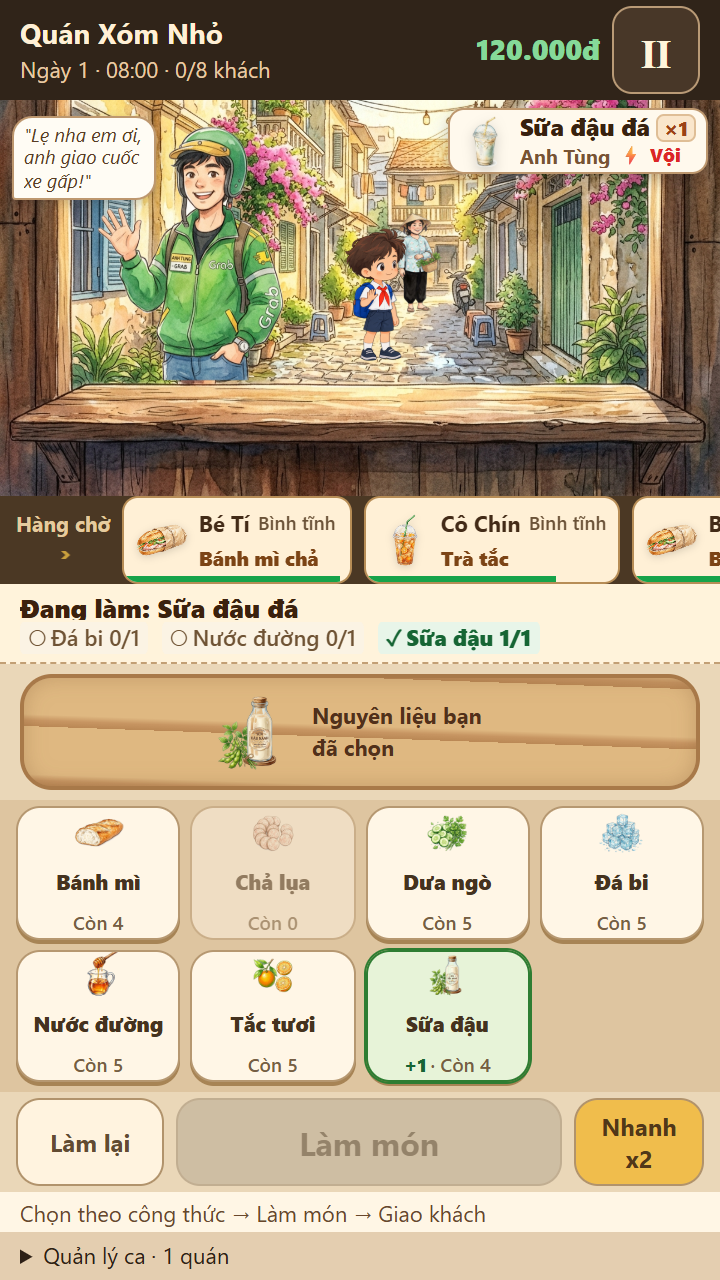
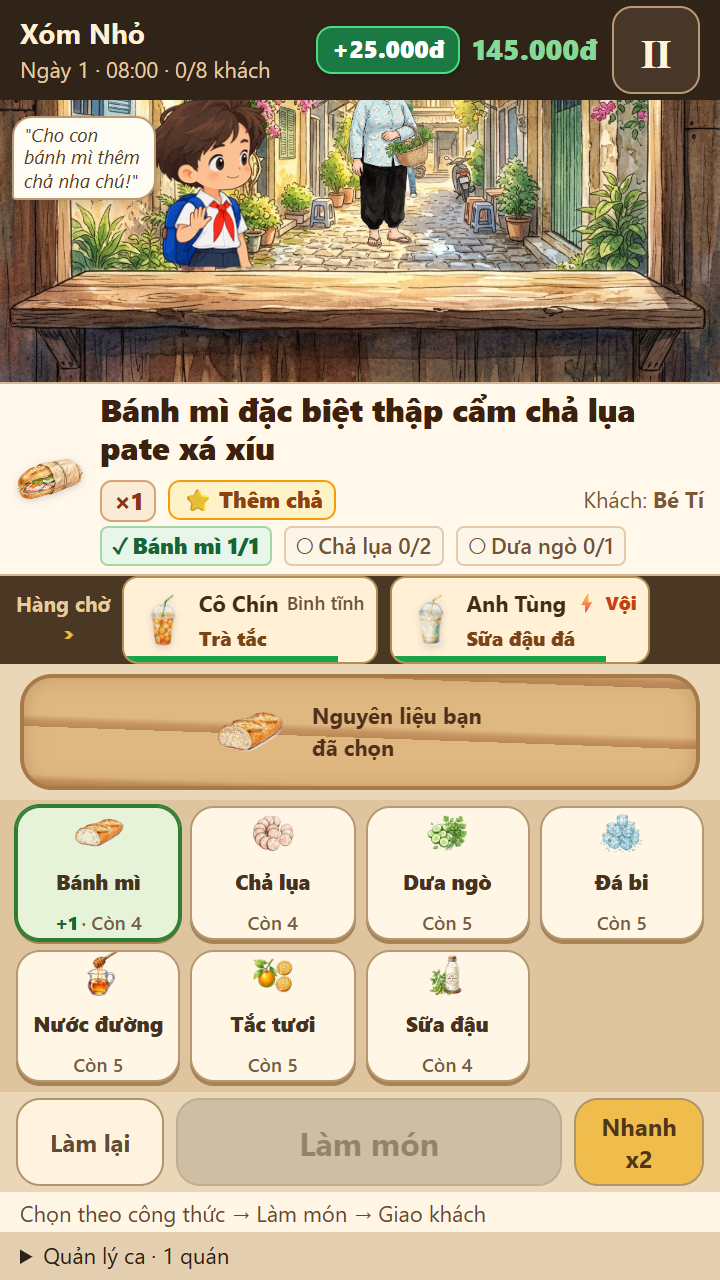
fix(mobile): convert order ticket to order strip under scene with 16px dish name, separate qty, and header cash gain

diff --git a/game/style.css b/game/style.css
@@ -2633,31 +2633,37 @@ button:focus-visible, [role=button]:focus-visible { outline: 3px solid #0e7490; 
 
 /* Hands-on mobile kitchen: all cooking controls share the visible viewport. */
 #app[data-screen="SHOP"] { height: 100dvh; min-height: 0; overflow: hidden; }
-.play-screen { height:100%; display:grid; grid-template-rows:54px minmax(120px,1fr) 44px 42px 84px 154px 54px 24px 24px; gap:0; background:#ead7b8; padding-bottom:env(safe-area-inset-bottom); }
+.play-screen { height:100%; display:grid; grid-template-rows:54px minmax(110px,1fr) auto 44px 84px 154px 54px 24px 24px; gap:0; background:#ead7b8; padding-bottom:env(safe-area-inset-bottom); }
 .play-header { display:flex; align-items:center; gap:6px; padding:5px 10px; background:#302419; color:#fff0d6; }
 .play-header>div { min-width:0; flex:1; }
 .play-header b { display:block; white-space:nowrap; overflow:hidden; text-overflow:ellipsis; font-size:14px; }
 .play-header small { display:block; font-size:11px; color:#e8cba5; }
-.play-cash { font-size:14px; font-weight:800; color:#86d999; position:relative; white-space:nowrap; }
-.play-cash i { position:absolute; top:24px; right:0; background:#237846; color:white; z-index:60; font-size:12px; font-style:normal; padding:2px 6px; }
+.play-cash-group { display:flex; align-items:center; gap:6px; margin-left:auto; }
+.cash-floating-gain { background:#1b7a43; color:#ffffff; font-size:12px; font-weight:800; padding:2px 7px; border-radius:8px; border:1px solid #4ade80; box-shadow:0 2px 4px rgba(0,0,0,0.2); white-space:nowrap; animation:gainPulse 0.4s ease-out; }
+@keyframes gainPulse { 0% { transform:scale(0.85); opacity:0; } 50% { transform:scale(1.08); opacity:1; } 100% { transform:scale(1); opacity:1; } }
+.play-cash { font-size:14px; font-weight:800; color:#86d999; white-space:nowrap; }
 .play-pause { width:44px; height:44px; border:1px solid #b99a76; background:#483728; color:#fff5db; border-radius:10px; flex-shrink:0; font-size:20px; }
 .play-scene { position:relative; overflow:hidden; min-height:0; background:#c1b288; }
 .play-stage { position:absolute; inset:0; width:100%; height:100%; pointer-events:none; }
 .customer-speech-bubble { position:absolute; z-index:25; left:6px; top:8px; max-width:72px; background:#fffcf4; border:1.5px solid #bd976e; border-radius:10px 10px 10px 2px; padding:3px 5px; font-size:9.5px; font-style:italic; color:#583d24; line-height:1.2; box-shadow:0 2px 6px rgba(36,26,25,0.22); pointer-events:none; }
 .customer-speech-bubble span { display:-webkit-box; -webkit-line-clamp:3; -webkit-box-orient:vertical; overflow:hidden; }
-.play-speech, .customer-order-callout { position:absolute; z-index:30; right:6px; top:4px; max-width:138px; background:#fff9ed; border:1.5px solid #bd976e; border-radius:8px; padding:2px 5px; box-shadow:0 3px 8px rgba(36,26,25,0.25); display:flex; align-items:center; gap:4px; }
-.customer-order-callout.is-empty { padding:6px 10px; text-align:center; color:#795b3d; font-style:italic; font-size:11px; }
-.ticket-dish-img { width:28px; height:28px; object-fit:contain; flex-shrink:0; filter:drop-shadow(0 2px 3px rgba(0,0,0,0.18)); }
-.ticket-dish-meta { flex:1; min-width:0; display:flex; flex-direction:column; justify-content:center; gap:1px; }
-.ticket-dish-title-row { display:flex; align-items:baseline; gap:3px; flex-wrap:wrap; }
-.ticket-dish-name { font-size:12.5px; font-weight:800; color:#38210f; line-height:1.15; white-space:normal; word-break:break-word; }
-.ticket-qty-pill { font-size:10px; font-weight:800; color:#9c4115; background:#fae6cb; border:1px solid #dfbe96; border-radius:4px; padding:0 3px; flex-shrink:0; line-height:1.2; }
-.ticket-special-badge { display:inline-block; font-size:9.5px; font-weight:800; color:#b44921; background:#fdf2db; border:1px solid #eab366; border-radius:4px; padding:0 3px; white-space:nowrap; }
-.ticket-cust-sub { display:flex; align-items:center; gap:4px; font-size:10px; color:#785333; line-height:1.2; }
-.ticket-cust-name { font-weight:700; white-space:nowrap; overflow:hidden; text-overflow:ellipsis; }
-.ticket-rush-tag { color:#dc2626; font-weight:800; font-size:9.5px; white-space:nowrap; }
-.ticket-empty-row { font-size:11px; color:#83674b; font-style:italic; padding:2px 0; }
-.play-pause-overlay { position:absolute; inset:0; background:#30241990; z-index:50; color:#fff; display:grid; place-items:center; font-size:20px; font-weight:800; }
+.active-order-strip { background:#fff8eb; border-top:1.5px solid #d4b896; border-bottom:1.5px solid #d4b896; padding:4px 10px; display:flex; flex-direction:column; justify-content:center; gap:3px; box-shadow:0 2px 4px rgba(60,35,10,0.06); min-height:48px; overflow:hidden; }
+.active-order-strip.is-empty { padding:6px 10px; }
+.order-strip-main { display:flex; align-items:center; gap:8px; width:100%; }
+.order-strip-main .ticket-dish-img { width:34px; height:34px; object-fit:contain; flex-shrink:0; filter:drop-shadow(0 1px 2px rgba(0,0,0,0.15)); }
+.order-strip-content { flex:1; min-width:0; display:flex; flex-direction:column; gap:2px; }
+.order-strip-title-row { display:flex; align-items:center; gap:6px; flex-wrap:wrap; }
+.ticket-dish-name { font-size:16px; font-weight:800; color:#3b210e; line-height:1.2; display:-webkit-box; -webkit-line-clamp:2; -webkit-box-orient:vertical; overflow:hidden; word-break:break-word; }
+.ticket-qty-pill { font-size:12px; font-weight:800; color:#8a3416; background:#faebd7; border:1.5px solid #d5a374; border-radius:6px; padding:1px 6px; flex-shrink:0; }
+.ticket-special-badge { font-size:11px; font-weight:800; color:#92400e; background:#fef3c7; border:1px solid #f59e0b; border-radius:6px; padding:1px 6px; white-space:nowrap; flex-shrink:0; }
+.ticket-rush-tag { font-size:11px; font-weight:800; color:#b91c1c; background:#fee2e2; border:1px solid #f87171; border-radius:6px; padding:1px 5px; white-space:nowrap; flex-shrink:0; }
+.ticket-cust-tag { font-size:11px; color:#7a5836; white-space:nowrap; margin-left:auto; }
+.active-order-strip .receipt-checklist { display:flex; gap:6px; align-items:center; overflow-x:auto; padding-bottom:1px; margin:0; }
+.receipt-item { font-size:11px; color:#745b40; white-space:nowrap; display:inline-flex; align-items:center; gap:2px; padding:1px 5px; border-radius:4px; background:#fdf5e8; border:1px solid #e2cbaf; }
+.receipt-item.checked { color:#166534; font-weight:800; background:#e8f5e9; border-color:#a5d6a7; }
+.receipt-item.pending { color:#6f5334; font-weight:500; }
+.receipt-mark { font-style:normal; font-weight:900; font-size:11px; }
+.order-strip-empty { font-size:12px; color:#7a5836; display:flex; align-items:center; justify-content:space-between; }
 .play-queue { position:relative; display:flex; align-items:center; gap:6px; background:#4b3824; padding:0 8px; overflow-x:auto; color:#f6e1b9; font-size:11px; scrollbar-width:thin; }
 .queue-header-label { width:auto; min-width:38px; flex-shrink:0; font-weight:700; font-size:10.5px; color:#e5cb9f; display:flex; flex-direction:column; align-items:center; line-height:1.1; }
 .queue-scroll-indicator { display:inline-block; font-style:normal; font-size:13px; font-weight:900; color:#f6c445; animation:queueArrowPulse 1.2s ease-in-out infinite; }
@@ -2674,13 +2680,7 @@ button:focus-visible, [role=button]:focus-visible { outline: 3px solid #0e7490; 
 .queue-patience-bar { position:absolute; left:0; bottom:0; height:3px; }
 .queue-ticket.chosen { background:#ffdf8b; border:2px solid #e2ab24; }
 .queue-empty-note { font-size:11px; color:#d8c29f; font-style:italic; white-space:nowrap; }
-.order-receipt { padding:4px 10px; background:#fff3db; border-bottom:1px dashed #c29f74; display:flex; flex-direction:column; justify-content:center; overflow:hidden; }
-.order-receipt > b { font-size:13px; font-weight:800; color:#3b210e; line-height:1.2; white-space:nowrap; overflow:hidden; text-overflow:ellipsis; }
-.receipt-checklist { display:flex; gap:7px; align-items:center; overflow-x:auto; margin-top:1px; }
-.receipt-item { font-size:11px; color:#745b40; white-space:nowrap; display:inline-flex; align-items:center; gap:2px; padding:1px 4px; border-radius:4px; background:#fbf3e4; }
-.receipt-item.checked { color:#166534; font-weight:800; background:#e8f5e9; }
-.receipt-item.pending { color:#6f5334; font-weight:500; }
-.receipt-mark { font-style:normal; font-weight:900; font-size:11px; }
+.play-pause-overlay { position:absolute; inset:0; background:#30241990; z-index:50; color:#fff; display:grid; place-items:center; font-size:20px; font-weight:800; }
 .cooking-board {margin:5px 10px;position:relative;border:2px solid #a87949;border-radius:16px;background:repeating-linear-gradient(2deg,#ba8855 0px,#c79562 3px,#dfb881 6px,#dfb881 30px);box-shadow:inset 0 0 10px #70482340;display:flex;align-items:center;justify-content:center;gap:10px;overflow:hidden;color:#51301b;font-size:12px}
 .cooking-board>b{font-size:11px;max-width:100px}.selected-art{display:flex;align-items:center;justify-content:center;gap:2px;max-width:65%;height:63px}.selected-art img{width:50px;height:58px;object-fit:contain;animation:ingredientDrop .2s ease-out}.finished-dish{height:62px;width:100px;object-fit:contain;animation:ingredientDrop .25s ease-out}.is-cooking .selected-art {animation:cookSway .5s ease-in-out infinite alternate}.cook-progress{position:absolute;bottom:0;left:0;height:4px;width:100%;background:#f4d5a2}.cook-progress i{display:block;height:100%;background:#a65020}
 .ingredient-tray {display:grid;grid-template-columns:repeat(4,minmax(0,1fr));grid-template-rows:repeat(2,minmax(0,1fr));gap:5px;padding:3px 8px 5px;background:#dec5a0}
@@ -2692,7 +2692,7 @@ button:focus-visible, [role=button]:focus-visible { outline: 3px solid #0e7490; 
 .market-screen,.menu-screen{padding:10px 12px}.capacity-banner{padding:10px;margin-bottom:8px}.capacity-header{font-size:12px}.btn-bundle{padding:10px;font-size:13px}.btn-bundle small{font-size:10px;line-height:1.3}.market-list{display:grid;grid-template-columns:1fr 1fr;gap:7px}.market-item-card{display:flex;flex-wrap:wrap;padding:6px;gap:4px;border-radius:12px;min-width:0}.market-item-img{width:42px;height:36px;object-fit:contain}.market-item-info{flex:1;min-width:75px;gap:0}.market-item-info strong{font-size:12px}.market-item-info span{font-size:11px}.market-item-info small{display:none}.stepper{width:100%;justify-content:space-between;gap:2px}.step-btn{width:44px;height:44px}.market-checkout-dock{padding:8px 0;position:sticky;bottom:0;background:#fbf6ee}.checkout-summary{font-size:12px;margin-bottom:6px}.market-note{font-size:11px}.menu-intro{margin:0 0 8px}.menu-intro h3{font-size:15px;margin:0}.menu-intro p{font-size:12px;margin:3px 0}
 .menu-card{padding:10px 12px;margin:0 0 10px;border-radius:14px;background:#fffcf5;border:1.5px solid #d5be9b}.menu-card.locked-dish{background:#f6efe2;border-style:dashed}.menu-card-top{display:flex;align-items:center;gap:10px;margin-bottom:6px}.menu-dish-thumb{width:44px;height:44px;object-fit:contain;flex-shrink:0;filter:drop-shadow(0 2px 3px rgba(0,0,0,0.12))}.menu-dish-identity{flex:1;min-width:0}.menu-toggle{display:flex;align-items:center;gap:6px;min-height:32px;cursor:pointer}.menu-toggle input{width:20px;height:20px;margin:0;cursor:pointer;flex-shrink:0}.menu-toggle strong{font-size:14px;font-weight:800;color:#3b2210}.cost-estimate{display:block;font-size:11px;color:#765b3c;margin-top:1px}.menu-lock-condition{padding:6px 10px;background:#f0e4cf;border:1px solid #d0bc9b;border-radius:8px;font-size:11px;font-weight:600;color:#754f24;margin:4px 0 6px}.price-tiers-row{display:flex;align-items:center;justify-content:space-between;margin:6px 0;gap:6px}.price-tier-label{font-size:11px;font-weight:600;color:#583c22}.price-tier-buttons{display:flex;gap:6px}.price-tier-btn{min-width:44px;min-height:44px;padding:6px 12px;border:1.5px solid #bba17b;border-radius:10px;background:#f6ebd8;color:#4e341b;font-weight:700;font-size:13px}.price-tier-btn.selected{background:#b44921;color:#ffffff;border-color:#7e2d17}.menu-margin-preview{font-size:11px;color:#216d3f;font-weight:600;margin-top:4px}.price-demand-hint{font-size:11px;color:#b45309;margin-top:3px}.opening-time-section{padding:8px;margin-top:8px}.opening-time-section label{font-size:12px}.time-btn{min-height:44px;padding:6px;font-size:12px}.opening-note{font-size:11px;margin:6px 0}.menu-footer{padding:8px 0}.btn-primary{min-height:48px;font-size:15px;padding:12px;border-radius:14px}.cover-tag{font-size:11px}.cover-desc{font-size:14px}.top-nav{min-height:54px}
 @keyframes ingredientDrop{from{transform:translateY(-12px);opacity:0}to{transform:translateY(0);opacity:1}}@keyframes cookSway{from{transform:translateX(-3px)}to{transform:translateX(3px)}}@keyframes reactBounce{50%{transform:translateY(-5px)}}
-@media(max-height:640px){.play-screen{grid-template-rows:50px minmax(100px,1fr) 44px 40px 68px 146px 50px 20px 24px}.selected-art{height:50px}.selected-art img{height:45px;width:42px}.finished-dish{height:48px}.ingredient-button img{height:23px}.play-speech,.customer-order-callout{font-size:11px;max-height:46px;padding:2px 5px;max-width:138px}.ticket-dish-img{width:26px;height:26px}.ticket-dish-name{font-size:12px}.queue-ticket{min-height:44px;height:44px}.queue-dish-thumb{width:26px;height:26px}.queue-dish-name{font-size:10px;font-weight:800;text-overflow:clip}}
+@media(max-height:640px){.play-screen{grid-template-rows:50px minmax(90px,1fr) auto 44px 68px 146px 50px 20px 24px}.selected-art{height:50px}.selected-art img{height:45px;width:42px}.finished-dish{height:48px}.ingredient-button img{height:23px}.active-order-strip{padding:3px 8px;min-height:42px}.ticket-dish-name{font-size:16px;font-weight:800}.queue-ticket{min-height:44px;height:44px}.queue-dish-thumb{width:26px;height:26px}.queue-dish-name{font-size:10px;font-weight:800;text-overflow:clip}}
 @media(prefers-reduced-motion:reduce){.selected-art img,.finished-dish,.is-cooking .selected-art,.play-customer.react{animation:none}}
 /* Town map and staffing overlay: provisional UI, no new generated art. */
 .empire-nav{display:flex;gap:8px;margin:10px 0}.empire-nav button{flex:1;min-height:44px;border:1px solid #b8986b;border-radius:12px;padding:8px;background:#eee0c8;color:#5b4129;font-weight:700;font-size:12px}.empire-backdrop{position:fixed;inset:0;background:#2c2419b8;z-index:220;display:flex;justify-content:center;align-items:center;padding:12px}.empire-panel{width:100%;max-width:460px;max-height:calc(100dvh - 24px);overflow:auto;border:2px solid #b6915c;border-radius:20px;background:#fcf3e0;padding:15px;box-shadow:0 10px 30px #201a1680}.empire-panel>header{display:flex;align-items:center;gap:8px;justify-content:space-between}.empire-panel h2{font-size:19px;margin:0}.empire-panel>header button{min-width:44px;min-height:44px;background:#ead8b8;border:1px solid #b3966b;border-radius:12px;font-size:24px}.panel-hint{font-size:12px;color:#77593a;margin:8px 0 12px}.town-map{display:grid;gap:12px;padding:12px;border-radius:18px;background:repeating-linear-gradient(0deg,#d5c9a5 0,#d5c9a5 35px,#e8ddbf 36px,#e8ddbf 42px)}.map-location{border:2px solid #b79c70;padding:12px;border-radius:16px;background:#fff6df;box-shadow:0 3px 0 #9b8965}.map-location.school{margin-left:18px}.map-location.office{margin-right:18px}.map-location.selected{border-color:#3c8051;background:#eaf3da}.map-location.locked{background:#e3dbc9;border-style:dashed}.map-location h3{font-size:16px;margin:4px 0}.map-location p{font-size:12px;margin:6px 0}.map-location small{display:block;font-size:11px;color:#715739}.map-location button{display:block;width:100%;min-height:44px;border:1px solid #a88b5f;border-radius:11px;background:#bc5a2e;color:#fff7e2;font-size:13px;font-weight:700;margin-top:8px}.map-location button:disabled{background:#b8a78b;color:#f5eddf}.map-metrics{display:flex;justify-content:space-between;gap:6px;font-size:12px}.staff-list{display:grid;gap:9px}.employee-card{border:1px solid #c1a77b;border-radius:14px;background:#fff9ed;padding:12px}.employee-card h3{font-size:14px;margin:0 0 7px}.employee-meters{display:flex;gap:8px;flex-wrap:wrap;font-size:11px;color:#7a5836}.employee-card small{font-size:11px}.employee-actions{display:flex;flex-wrap:wrap;gap:6px;margin-top:8px}.employee-actions button{min-height:44px;flex:1;min-width:100px;border:1px solid #b69a70;border-radius:9px;background:#f2dfbb;font-size:11px;color:#533a23}.employee-actions .release-staff{background:#f4ddd1;color:#8d3c27}.hire-grid{display:grid;grid-template-columns:1fr;gap:10px}.staff-role-card{border:1px solid #c8af88;border-radius:14px;background:#fffcf5;padding:12px;box-shadow:0 2px 5px rgba(0,0,0,0.05);display:flex;flex-direction:column;gap:5px}.staff-role-card.role-locked{background:#f5eedf;border-style:dashed}.role-card-header{display:flex;justify-content:space-between;align-items:center}.role-card-header h4{margin:0;font-size:15px;font-weight:800;color:#3b2210}.role-wage{font-size:12px;font-weight:700;color:#b44921;background:#faebd7;padding:2px 7px;border-radius:6px}.role-perk{margin:0;font-size:12px;color:#583d23;line-height:1.35}.role-status-row{font-size:11px}.role-tag.hired{color:#166534;font-weight:700}.role-tag.locked{color:#854d0e;font-weight:600}.role-tag.available{color:#1e40af;font-weight:600}.btn-hire{width:100%;min-height:44px;min-width:44px;border:1.5px solid #a8885b;border-radius:10px;background:#bc5a2e;color:#fff7e2;font-size:13px;font-weight:800;cursor:pointer;margin-top:2px}.btn-hire:disabled{background:#d3c4ad;color:#705d47;border-color:#bea98e;cursor:not-allowed;opacity:0.85}.branch-results{display:grid;gap:12px;margin-bottom:15px}.branch-results article{border:1px solid #cdb58a;border-radius:15px;background:#fff5df;padding:12px}.branch-results header{display:flex;justify-content:space-between;align-items:center}.branch-results h3{font-size:16px;margin:0 0 8px}.branch-results small,.branch-results p{font-size:12px}.branch-results h4{font-size:13px;margin:10px 0 5px}.branch-results summary{font-size:12px}
